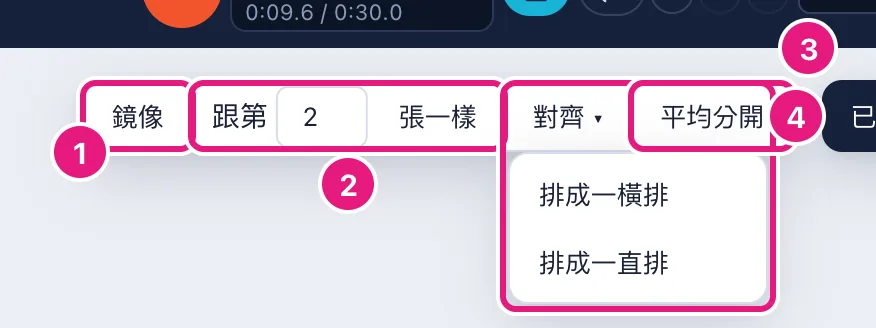
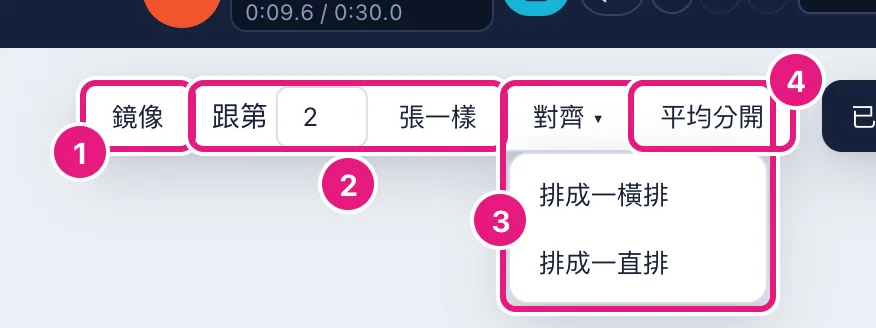
使用說明：金字塔的環節可以佔同樣的拍（怎麼標、往下多一排、點哪條改哪條清哪條、換大類要先分開）、打 ✗ 之後照拍算哪些空著、只練幾個環節時先不自動存和「存這一次」；名詞對照表的「環節」「一次」跟詞彙表一樣；多拍一張金字塔兩排環節的截圖，重拍截圖，號碼不再擠在別的框上（#289）

Changed region(s): [[0.863, 0.061, 0.9555, 0.4573], [0.524, 0.5793, 0.6164, 0.7622]]

diff --git a/src/routes/guide/+page.svelte b/src/routes/guide/+page.svelte
@@ -22,6 +22,7 @@
 	import cuesShot from '#lib/guide/shots/cues.webp';
 	import railShot from '#lib/guide/shots/rail.webp';
 	import rateShot from '#lib/guide/shots/rate.webp';
+	import overlapShot from '#lib/guide/shots/overlap.webp';
 	import squadsShot from '#lib/guide/shots/squads.webp';
 	import recordShot from '#lib/guide/shots/record.webp';
 	import summaryShot from '#lib/guide/shots/summary.webp';
@@ -281,12 +282,12 @@
 							<tr><td><b>手位</b></td><td>手臂擺出的固定姿勢，例如 high V、T，只佔一拍。</td></tr>
 							<tr class="group"><td colspan="2">成功率（見 <a href="#practice">4.10</a>）</td></tr>
 							<tr><td><b>組</b></td><td>一個動作裡一起做、一起算成功率的幾個人，例如一個技巧的主底、側底、後保、上層。一個動作可以有好幾組，例如 16 個人分 4 組同時做一樣的技巧。組號從 1 連續往下排，不跳號：一組空掉，後面的組往前補號，紀錄還是跟著原來那一組。加第一個環節時，全部的人先在第 1 組；大類從騰翻、跳躍換成要分組的大類時也一樣。從別的動作複製人時連組一起帶過來（還沒有環節的動作也帶著），加第一個環節時照帶來的組。動作只有一組時，新加進來、沒帶組的人進第 1 組。沒分到組的人不算成功率。騰翻、跳躍的動作不分組，每個人自己算。</td></tr>
-							<tr><td><b>環節</b></td><td>一個動作裡要分開算成功率的一部分。種類只有七種：上法、中段、轉接、下法、拋法、翻法、跳法；技巧、金字塔用前四種，拋投只用拋法，騰翻只用翻法，跳躍只用跳法，舞蹈、其他沒有環節、不記成功率。換大類時，環節換成新大類的種類，名字和紀錄留著；換到舞蹈、其他，環節和紀錄就沒了（有紀錄會先問）。可以再取名字，例如上法「延伸」。在音樂段，環節一定佔動作裡的哪幾拍，照拍的先後排；拍被清光，環節就沒了。在口號段不數拍，環節不標拍，照加的先後排。動作有環節才記成功率，最後一個環節沒了就不記。</td></tr>
+							<tr><td><b>環節</b></td><td>一個動作裡要分開算成功率的一部分。種類只有七種：上法、中段、轉接、下法、拋法、翻法、跳法；技巧、金字塔用前四種，拋投只用拋法，騰翻只用翻法，跳躍只用跳法，舞蹈、其他沒有環節、不記成功率。換大類時，環節換成新大類的種類（換到技巧、金字塔是上法），名字和紀錄留著；換到舞蹈、其他，環節和紀錄就沒了（有紀錄會先問）；金字塔有環節佔同樣的拍時，要先分開才能換到技巧、拋投、騰翻、跳躍。可以再取名字，例如上法「延伸」。<br />在音樂段，環節一定佔動作裡的哪幾拍，照拍的先後排；金字塔的環節可以佔同樣的拍，例如第一個三層停在中段時，第二個三層還在上法，其他大類的環節不佔同樣的拍；拍被清光，環節就沒了；它跟那幾拍的拍點畫在一起，但不會改到拍點。在口號段不數拍，環節不標拍，照加的先後排。<br />同一個動作裡，每一組記的環節都一樣；動作有環節才記成功率，最後一個環節沒了就不記。</td></tr>
 							<tr><td><b>上法、中段、轉接、下法</b></td><td>上法是把上層撐上去；中段是上層停在上面、不換技巧；轉接是上層在上面換到另一個技巧；下法是讓上層回到地上。</td></tr>
 							<tr><td><b>拋法、翻法、跳法</b></td><td>拋法是從底層一起 dip、把上層拋出去，到接住為止，整段一起算；翻法是一個人做一趟騰翻，從助跑到落地；跳法是一個人做一次跳躍，從準備到落地。</td></tr>
 							<tr><td><b>記號</b></td><td>打在一次的一個環節上的 ✓（成功）、△（小失誤）或 ✗（失敗）。</td></tr>
 							<tr><td><b>成功、小失誤、失敗</b></td><td>✓ 乾淨做好；△ 做完了但不乾淨（晃了、快掉，救回來沒掉）；✗ 有做但沒做完（掉下來，被接進搖籃也算）。</td></tr>
-							<tr><td><b>一次</b></td><td>一組（騰翻、跳躍是一個人）把一個動作做一遍的紀錄。不是「整個做」，就是「只練幾個環節」。中途失敗，後面的環節空著。</td></tr>
+							<tr><td><b>一次</b></td><td>一組（騰翻、跳躍的動作是一個人）把一個動作做一遍的一筆紀錄，每個有做的環節打一個記號。每一次不是「整個做」，就是「只練幾個環節」；全上記的一律是整個做。中途失敗，失敗的環節做完之後才開始的環節空著；金字塔裡跟失敗的環節佔同樣拍的環節是同時在做的，還可以打記號，沒打就空著。口號段不數拍，失敗的環節後面的都空著。只練幾個環節，就只記那幾個。空著的不算進成功率。</td></tr>
 							<tr><td><b>成功率</b></td><td>一個環節有打記號的次數裡，成功佔多少。</td></tr>
 							<tr><td><b>完成率</b></td><td>一個環節有打記號的次數裡，成功加小失誤佔多少，也就是沒失敗的比例。</td></tr>
 							<tr><td><b>整次成功率</b></td><td>整個做的次裡，每個環節都成功的次佔多少。</td></tr>
@@ -1111,22 +1112,37 @@
 				<p>音樂段的動作，環節標在動作裡的哪幾拍：</p>
 				<ol class="steps">
 					<li>在拍點格子選好拍（見 <a href="#cues">4.7</a>），要從整拍開始。拍點小窗最下面是「環節」那一排。</li>
-					<li><b>加：</b>選種類、打名字（可以空著），按「加入」或在名字欄按 Enter，加一個新環節標在這幾拍。技巧、金字塔的種類預設接在上一個環節後面（上法 → 中段 → 轉接 → 下法），第一個是上法；拋投、騰翻、跳躍只有一種，種類直接寫好，不用選。</li>
-					<li><b>標拍：</b>按那一排現有環節的名字，就把選的拍標給它。</li>
+					<li><b>加：</b>選種類、打名字（可以空著），按「加入」或在名字欄按 Enter，加一個新環節標在這幾拍。技巧、金字塔的種類預設接在清單最後一個環節後面（上法 → 中段 → 轉接 → 下法），第一個是上法；不對就自己選。拋投、騰翻、跳躍只有一種，種類直接寫好，不用選。</li>
+					<li><b>標拍：</b>按那一排現有環節的名字，就把選的拍標給它。技巧、拋投、騰翻、跳躍蓋到別的環節，別的環節就切短（切成兩段時留前面那段）；金字塔不會切到別的環節（見<a href="#金字塔的環節可以佔同樣的拍">下面「金字塔的環節可以佔同樣的拍」</a>）。</li>
 					<li>
-						<b>刪：</b>按那一排的「清掉」，拿掉選到的拍上標的環節：只清到一部分的環節變短，拍被清光的環節就刪掉。把一個環節的拍全部標給別的環節，它也會刪掉。要刪的環節已經打過記號的話，小窗裡會先問，按「確定刪除」才刪。
+						<b>刪：</b>按那一排的「清掉」。點了環節那一條上的色條再按，只清那一條：它的拍整個清光，所以刪掉。自己選一段拍再按，那段拍上標的環節都清：只清到一部分的環節變短，拍被清光的環節就刪掉。技巧、拋投、騰翻、跳躍把一個環節的拍全部標給別的環節，它也會刪掉。要刪的環節已經打過記號的話，小窗裡會先問，按「確定刪除」才刪。
 					</li>
 					<li>
-						<b>改：</b>點拍點格子環節那一條上的色條，選到的就剛好是那個環節的拍，那一排下面多出「改環節」：點色塊換顏色（「照種類」是回到種類的顏色）、換種類（拋投、騰翻、跳躍沒得換）、改名字。
+						<b>改：</b>點拍點格子環節那一條上的色條，選到它的拍，那一排下面多出「改環節」：點色塊換顏色（「照種類」是回到種類的顏色）、換種類（拋投、騰翻、跳躍沒得換）、改名字。點哪一條就改哪一條，兩條佔一樣的拍也一樣；之後改了選的拍，就不算點了那一條。自己選的拍剛好是兩個環節的拍時，改的是排前面的那個，要改另一個就點它那條。
 					</li>
 				</ol>
+				<p id="金字塔的環節可以佔同樣的拍">
+					<b>金字塔的環節可以佔同樣的拍。</b>金字塔常常是第一個三層停在中段時，第二個三層還在上法：兩個環節同時在做。大類是金字塔的動作，加環節、標拍都不會切到別的環節：選好第二個三層上法的那幾拍（第一個三層的中段已經佔了也沒關係），加一個新環節，例如上法「第二個」。疊一部分、整段一樣都可以；佔同樣拍的環節取不同的名字，分得出哪個是哪個。
+				</p>
+				<figure class="diagram shot">
+					<a href={overlapShot} target="_blank" rel="noopener"
+						><img src={overlapShot} style:max-width="360px" alt="金字塔的拍點格子，環節佔同樣的拍時往下多一排，分成兩排：1 第一排是上法 第一個、中段 第一個、下法，2 第二排是上法 第二個、中段 第二個，3 點了上法 第二個那一條，改環節改的是它。" /></a
+					>
+					<figcaption>
+						圖 19　金字塔的環節佔同樣的拍。中段「第一個」和上法「第二個」都從 6-5 開始，上法「第二個」往下多一排。① 第一排　② 第二排（疊著的）　③ 點了上法「第二個」那一條，「改環節」改的是它。
+					</figcaption>
+				</figure>
+				<p class="note">
+					疊著的環節在拍點格子往下多一排，兩條都整條看得到；同一個環節跨好幾個八拍時，每個八拍都畫在同一排；沒有疊的地方還是一排。八拍表（畫面上的、印出來的）、檢視模式的前後八拍和現在這一列、流程影片也一樣分排；泳道上動作的環節細條疊幾層就幾排，名稱和拍點再往下讓。<br />
+					技巧、拋投、騰翻、跳躍的環節不能佔同樣的拍。金字塔有環節佔同樣的拍時，大類不能換成這四種：畫面寫「有環節佔同樣的拍，先分開才能換成技巧」（照你選的大類），大類退回金字塔；先改拍或刪掉，讓環節不再佔同樣的拍，再換。換成舞蹈、其他照舊：環節拿掉，有紀錄先問。
+				</p>
 				<p>口號段不數拍，格子換成一句「口號段不數拍，不能放拍點」，下面直接一排「環節」，環節不用標拍：</p>
 				<ol class="steps">
 					<li><b>加：</b>選種類、打名字，按「加入」或 Enter，加在最後。環節照加的先後排。</li>
 					<li><b>改、刪：</b>點一個環節選它（再點一次是不選），下面多出「改環節」，可以改顏色、種類、名字；按「清掉」刪掉它，有記號的話先問。</li>
 				</ol>
 				<p class="note">
-					音樂段的環節照標的拍的先後排。拍點格子的環節列（拍子列上面那一條，一直都在；舞蹈、其他沒有）寫出環節，那幾拍從上到下鋪上環節的顏色；泳道的色條上緣多一條環節顏色的細線；八拍表那一列也寫出環節。標拍不會改到拍點。動作變短、標的拍放不下時，跟拍點一起先問（見 <a href="#cues">4.7</a>）；拍被清光的環節會刪掉。
+					音樂段的環節照開始的拍排先後；同一拍開始的，先加的在前（練習的卡、全上的表也是這個順序）。拍點格子的環節列（拍子列上面那一條，一直都在；舞蹈、其他沒有）寫出環節，那幾拍從上到下鋪上環節的顏色；泳道的色條上緣多一條環節顏色的細線；八拍表那一列也寫出環節。標拍不會改到拍點。動作變短、標的拍放不下時，跟拍點一起先問（見 <a href="#cues">4.7</a>）；拍被清光的環節會刪掉。
 				</p>
 
 				<h4 id="組">組</h4>
@@ -1155,7 +1171,7 @@
 						><img src={recordShot} style:max-width="820px" alt="練習畫面的記錄頁：1 上方列的編排、練習切換、2 記錄和總表兩頁、日期、3 左邊要記的動作、4 一組一張卡（這次練整個或只練幾個環節，每個環節三顆記號按鈕）、5 這天的每一次和刪掉上一次、6 每天的成功率表。" /></a
 					>
 					<figcaption>
-						圖 19　記錄頁。① 「編排」「練習」切換　② 「記錄」「總表」和日期　③ 要記的動作　④ 一組一張卡：這次練什麼、每個環節的 ✓ △ ✗　⑤ 這天的每一次、「刪掉上一次」　⑥ 每天的成功率。
+						圖 20　記錄頁。① 「編排」「練習」切換　② 「記錄」「總表」和日期　③ 要記的動作　④ 一組一張卡：這次練什麼、每個環節的 ✓ △ ✗　⑤ 這天的每一次、「刪掉上一次」　⑥ 每天的成功率。
 					</figcaption>
 				</figure>
 				<ol class="steps">
@@ -1164,12 +1180,15 @@
 					<li>右邊每組一張卡（騰翻、跳躍每人一張）。先選「這次練」：「整個」，或「只練幾個環節」再勾要練的環節（點那一列的空白處也能勾；卡上會寫一行「勾要練的環節，按完最後一個勾的環節（或按到 ✗）就自動存」）。動作只有一個環節時沒得選，一定是整個做，<b>按了記號就存</b>。</li>
 					<li>
 						那一組做完一次，照順序在每個環節按 ✓、△ 或 ✗。按錯了，再按一次亮著的那顆就取消。<br />
-						<b>「整個」：</b>都按好了，按環節右下方的「存這一次」才存。其他環節都成功，直接按旁邊的「全部 ✓ 存」：已經按的 △、✗ 照按的存，空著的補 ✓，不用一格一格按。中途失敗就在那個環節按 ✗：後面環節的按鈕變灰、按不了，再按「存這一次」，後面的環節空著。前面的環節空著、卻按了後面的（跳過了前面的環節）時，按存之前卡上就會寫「跳過了前面的環節，存了會記成「只練幾個環節」，不算進整次成功率」；照順序按不會寫。<br />
-						<b>「只練幾個環節」：</b>要練的環節都按了，<b>就自動存成一次</b>，不用按存；按到 ✗ 也馬上存，後面的環節空著。<br />
+						<b>「整個」：</b>都按好了，按環節右下方的「存這一次」才存。其他環節都成功，直接按旁邊的「全部 ✓ 存」：已經按的 △、✗ 照按的存，空著的補 ✓，不用一格一格按。中途失敗就在那個環節按 ✗：在它做完之後才開始的環節按鈕變灰、按不了，再按「存這一次」，那些環節空著。把 ✗ 改掉或取消，又按得了。<br />
+						金字塔裡跟 ✗ 佔同樣拍的環節是同時在做的，還可以按；沒按就空著，這一次還是算整個做（「全部 ✓ 存」會把它們補 ✓）。兩個都失敗就都按 ✗，在任何一個 ✗ 做完之後才開始的環節都空著。口號段不數拍，✗ 後面的環節都空著。<br />
+						前面的環節空著、卻按了後面的（跳過了前面的環節）時，按存之前卡上就會寫「跳過了前面的環節，存了會記成「只練幾個環節」，不算進整次成功率」；照順序按、或只是跟 ✗ 佔同樣拍的沒按，不會寫。<br />
+						<b>「只練幾個環節」：</b>要練的環節都按了，<b>就自動存成一次</b>，不用按存；按到 ✗ 也馬上存，在它做完之後才開始的環節空著。<br />
+						金字塔裡，還有勾了、還沒按、跟剛按的那個環節佔同樣拍的環節時，先不自動存：卡上寫「還有同時在做的環節沒打。打完會自動存，也可以按「存這一次」」，環節下面右邊多一顆「存這一次」。按完那幾個就自動存；不想按，按「存這一次」照現在按的存，沒按的不記。<br />
 						存好了，練習畫面下方跳出「已記下」。
 					</li>
 					<li>卡片下面列出這組這天的每一次，例如「✓✗·」（· 是空著的環節，— 是那一次之後才加的環節）；全上記的那幾次用虛線框、只練幾個環節的那幾次用淡色的點線框分出來（中途 ✗ 和只練第一個環節都寫「✗··」，看框分得出來）。記錯了，按「刪掉上一次」，刪掉這張卡這天最後記的那一次分段練（全上記的不會被刪到）。練習畫面下方寫刪了哪一次，例如「已刪掉 ✓✗·（第 4 次）」，旁邊有「救回」，10 秒內按它就拿回來（滑鼠在上面時不會收起來）。<br />
-						記錯的不是最後一次，點那一次（全上記的也可以）：下面打開「改第 n 次」，照樣按 ✓ △ ✗ 改，按「存修改」，卡上寫「已改」，成功率跟著變；按「刪掉這一次」只刪那一次（一樣寫出刪了第幾次，有「救回」）；按「不改了」收起來。全上記的那一次每個環節都要有記號（✗ 後面的不用）。</li>
+						記錯的不是最後一次，點那一次（全上記的也可以）：下面打開「改第 n 次」，照樣按 ✓ △ ✗ 改，按「存修改」，卡上寫「已改」，成功率跟著變；按「刪掉這一次」只刪那一次（一樣寫出刪了第幾次，有「救回」）；按「不改了」收起來。哪些按得了、哪些空著，跟記的時候一樣。<br />改全上記的那一次，每個環節都要有記號才存得了，不然寫「全上的一次每個環節都要有記號（✗ 做完之後才開始的、跟 ✗ 佔同樣拍的不用）」。</li>
 				</ol>
 				<p class="note">
 					流程裡還沒有記成功率的動作（沒有環節）時，記錄頁和總表只寫「還沒有要記的動作」，也沒有「記一次全上」。環節要在電腦或橫放的 iPad 上，到「編排」的拍點格子加（手機上不能編排）。
@@ -1189,7 +1208,7 @@
 					<a href={summaryShot} target="_blank" rel="noopener"
 						><img src={summaryShot} style:max-width="820px" alt="練習畫面的總表：1 篩選（期間、練法、大字看）、2 記一次全上和刪掉上一次全上按鈕、3 一組一個環節的格子（顏色看比例）、4 合計那一欄、5 整次那一列、6 點格子打開的明細。" /></a
 					>
-					<figcaption>圖 20　總表。① 篩選：期間、練法、大字看　② 「＋ 記一次全上」「刪掉上一次全上」　③ 一組、一個環節的格子　④ 合計　⑤ 整次　⑥ 明細。</figcaption>
+					<figcaption>圖 21　總表。① 篩選：期間、練法、大字看　② 「＋ 記一次全上」「刪掉上一次全上」　③ 一組、一個環節的格子　④ 合計　⑤ 整次　⑥ 明細。</figcaption>
 				</figure>
 				<ul class="steps">
 					<li>
@@ -1206,7 +1225,7 @@
 				<p class="purpose"><b>全上</b>是整支流程從頭到尾連著做一遍。全上記的次可以跟分段練分開看（「練法」篩選）。</p>
 				<ol class="steps">
 					<li>在記錄頁最上面或總表按「＋ 記一次全上」。每個有記成功率的動作一張表，一組一欄、一個環節一格，每格先是 ✓。</li>
-					<li>點出錯的格子：點一下變 △，再點變 ✗，再點回 ✓。一組在某個環節是 ✗，它後面的環節就空著。</li>
+					<li>點出錯的格子：點一下變 △，再點變 ✗，再點回 ✓。一組在某個環節是 ✗，同一個動作裡在它做完之後才開始的格子就空著（點過的也清掉）；金字塔裡跟它佔同樣拍的格子留著（沒點過的是 ✓，可以點）。把 ✗ 改回來，空著的格子回到 ✓。</li>
 					<li>每個動作名字旁邊有兩顆並排的鈕：有個動作沒做，按它的「這個沒做」，只拿掉這個動作；中途停了，在第一個沒做的動作按「後面都沒做」，它和後面的動作這次都不記。再按一次就回來。</li>
 					<li>按「存這次全上」：每組在每個動作各存成一次，都算整個做；存好了寫「已記下這次全上」。按「取消」不存；改過格子的話，會先問你。改過格子時切到「記錄」「總表」或「編排」，也一樣先問：按「繼續記」表還在，按「丟掉」才切過去。</li>
 				</ol>
@@ -1219,7 +1238,7 @@
 					<li>
 						<b>整次成功率：</b>整個做的次裡，每個環節都成功的次佔多少。中途失敗的也算一次（沒成功）；只練幾個環節的次不算；那一次之後才加的環節不看。
 					</li>
-					<li>空著的環節（中途失敗之後的、這次沒練的）不算進成功率，也不算進完成率。% 都四捨五入到整數。</li>
+					<li>空著的環節（✗ 做完之後才開始的、跟 ✗ 佔同樣拍沒打的、這次沒練的）不算進成功率，也不算進完成率。% 都四捨五入到整數。</li>
 				</ul>
 
 				<h4 id="會清掉紀錄的修改">會清掉紀錄的修改（都會先問）</h4>

diff --git a/src/routes/guide/guide.svelte.test.ts b/src/routes/guide/guide.svelte.test.ts
@@ -19,7 +19,7 @@ describe('使用說明', () => {
 	it('每張圖都有替代文字', () => {
 		render(Guide);
 		const images = document.querySelectorAll('img');
-		expect(images.length).toBe(21);
+		expect(images.length).toBe(22);
 		for (const img of images) expect(img.alt.length).toBeGreaterThan(10);
 	});
 
@@ -363,5 +363,61 @@ describe('上方列：永遠一行，不常按的五樣在「選單」裡（#281
 		const text = document.querySelector('main')!.textContent!;
 		expect(text).not.toContain('第二行');
 		expect(text).toContain('上方列永遠一行');
+	});
+});
+
+describe('環節：金字塔的環節可以佔同樣的拍', () => {
+	const words = () => {
+		const row = (word: string) =>
+			[...document.querySelectorAll('#words tr')].find((tr) => tr.querySelector('td b')?.textContent === word)!.textContent!;
+		return { phase: row('環節'), attempt: row('一次') };
+	};
+	/** 從小標題到下一個小標題之間的字。 */
+	const part = (id: string) => {
+		let text = '';
+		for (let el = document.getElementById(id)!.nextElementSibling; el && el.tagName !== 'H4'; el = el.nextElementSibling) text += el.textContent;
+		return text;
+	};
+
+	it('名詞對照表的「環節」「一次」跟詞彙表一樣', () => {
+		render(Guide);
+		const { phase, attempt } = words();
+		expect(phase).toContain('金字塔的環節可以佔同樣的拍，例如第一個三層停在中段時，第二個三層還在上法，其他大類的環節不佔同樣的拍');
+		expect(phase).toContain('金字塔有環節佔同樣的拍時，要先分開才能換到技巧、拋投、騰翻、跳躍');
+		expect(phase).toContain('同一個動作裡，每一組記的環節都一樣');
+		expect(attempt).toContain('中途失敗，失敗的環節做完之後才開始的環節空著；金字塔裡跟失敗的環節佔同樣拍的環節是同時在做的，還可以打記號，沒打就空著');
+		expect(attempt).toContain('口號段不數拍，失敗的環節後面的都空著');
+		expect(attempt).not.toContain('中途失敗，後面的環節空著');
+	});
+
+	it('環節那一段：可以佔同樣的拍、怎麼標、疊著的往下多一排、點哪條改哪條清哪條、別的大類不行、換大類要先分開', () => {
+		render(Guide);
+		const text = part('環節');
+		for (const words of [
+			'金字塔的環節可以佔同樣的拍', '第一個三層停在中段', '第二個三層還在上法', '不會切到別的環節',
+			'往下多一排', '點哪一條就改哪一條', '只清那一條', '排前面的那個',
+			'技巧、拋投、騰翻、跳躍的環節不能佔同樣的拍', '有環節佔同樣的拍，先分開才能換成技巧'
+		]) {
+			expect(text, words).toContain(words);
+		}
+		// 環節佔的是「拍」，不叫拍點
+		expect(text).not.toMatch(/環節(佔|標|的)的?拍點/);
+		const shot = [...document.querySelectorAll('#practice img')].find((img) => img.alt.includes('佔同樣的拍'));
+		expect(shot?.alt).toContain('兩排');
+	});
+
+	it('練習那一段：打 ✗ 之後哪些空著、什麼時候先不自動存、「存這一次」在哪', () => {
+		render(Guide);
+		const text = document.getElementById('practice')!.textContent!;
+		for (const words of [
+			'做完之後才開始的環節', '同時在做', '沒按就空著',
+			'還有同時在做的環節沒打。打完會自動存，也可以按「存這一次」',
+			'全上的一次每個環節都要有記號（✗ 做完之後才開始的、跟 ✗ 佔同樣拍的不用）'
+		]) {
+			expect(text, words).toContain(words);
+		}
+		for (const old of ['後面環節的按鈕變灰', '它後面的環節就空著', '（✗ 後面的不用）', '中途失敗之後的', '按到 ✗ 也馬上存，後面的環節空著']) {
+			expect(text, old).not.toContain(old);
+		}
 	});
 });

diff --git a/docs/guide-diagrams/README.md b/docs/guide-diagrams/README.md
@@ -22,7 +22,7 @@ python3 "$F" check src/lib/guide/time.svg
 
 ## 畫面截圖
 
-說明裡另外有 15 張真的畫面截圖（`src/lib/guide/shots/*.webp`，紅框和號碼是拍的時候畫上去的）。
+說明裡另外有 16 張真的畫面截圖（`src/lib/guide/shots/*.webp`，紅框和號碼是拍的時候畫上去的）。
 改了編輯器的畫面之後，重拍一次：
 
 ```sh
@@ -30,4 +30,6 @@ npm run guide:shots
 ```
 
 腳本是 `scripts/guide-screenshots.mjs`：自己開 `vite dev` 和 headless Chrome，照第 5 章「新手試跑」點一次，邊做邊拍。
+最後一張 `overlap.webp`（金字塔的環節佔同樣的拍）不在試跑裡：試跑只有技巧，拍完總表再回編排加一個金字塔來拍。
 Chrome 不在 macOS 預設位置時，加 `CHROME=/path/to/chrome`。重拍後看一下圖，紅框有沒有框對地方。
+號碼自己找地方放，放的地方不對時，在腳本那一格給位置（`{ x, y, dx, dy }`），還是被挪走就加 `fixed: true`。
